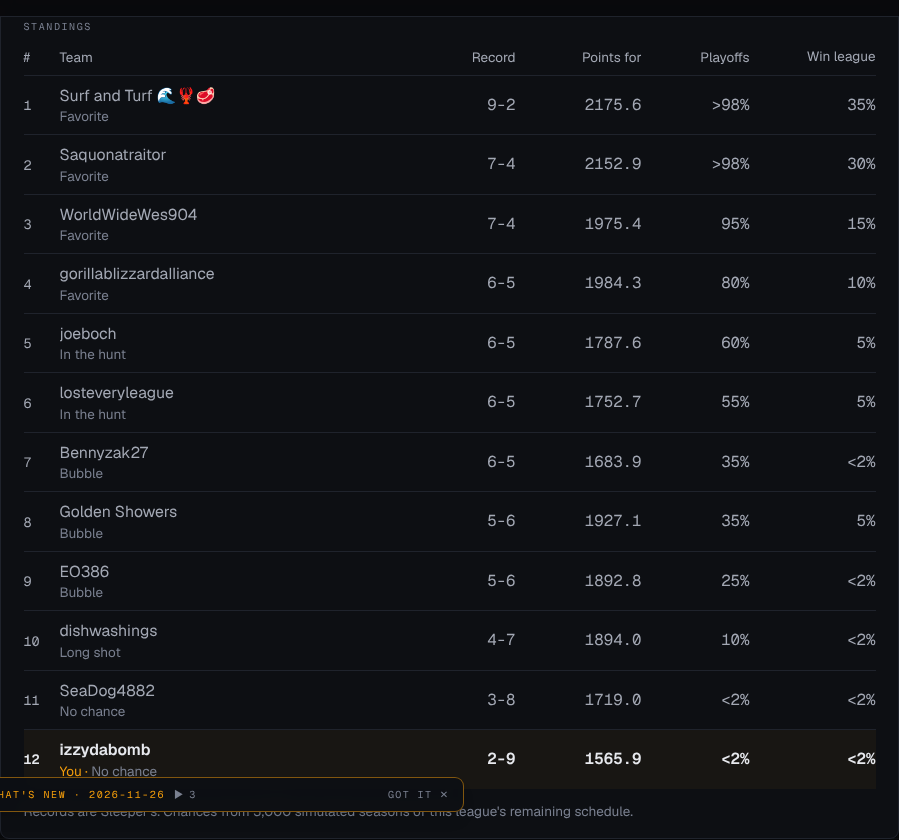
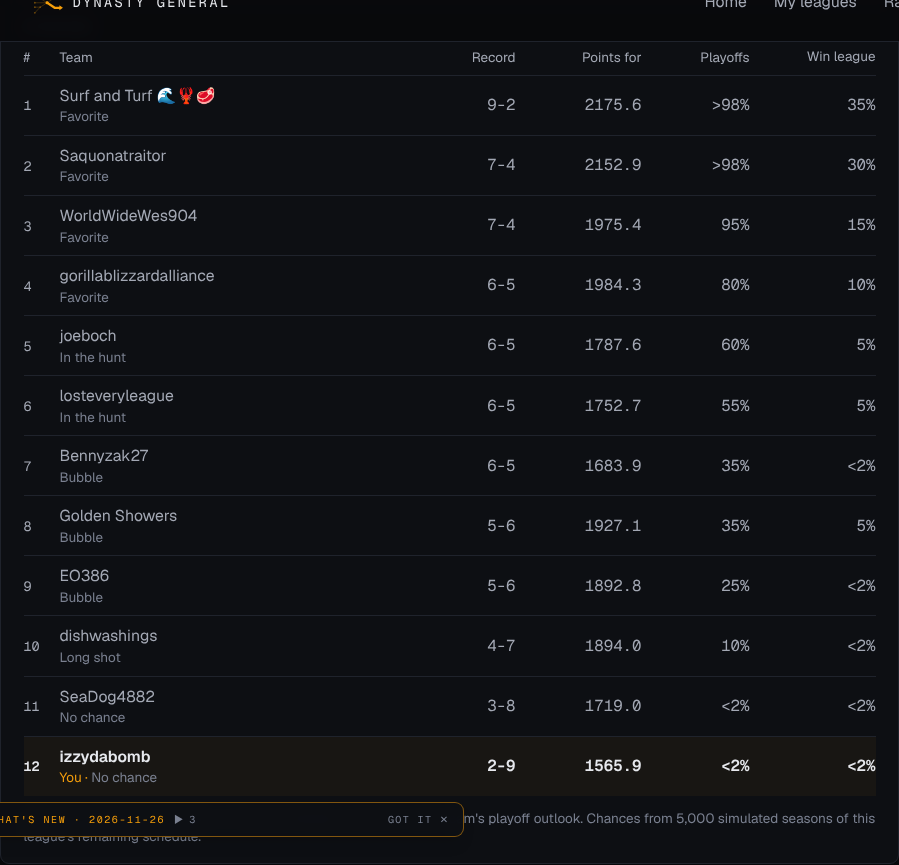
PR 156 design-qa round 1: preseason reads one tap down, outlook starts next season, odds counted with median games, one percent format
- In-season the league section leads with standings; roster value tables, draft-era opponent reads and the preseason SWOT sit in one collapsed block. SWOT hidden in redraft, best ball and closed-trade leagues.
- Contender outlook starts at next season in-season (this season is answered by results).
- Median-game leagues show odds now that #155 counts median games.
- Buyer reasons print odds with fmtPct; seller tag only in dynasty and keeper with trades open; labels wrap on phone, legend in the footnote.

Claude-Session: https://claude.ai/code/session_014dZxKd6LALUkPtsHqxYePm

diff --git a/src/app/leagues/[leagueId]/page.tsx b/src/app/leagues/[leagueId]/page.tsx
@@ -1983,7 +1983,18 @@ export default async function LeagueHubPage({
   if (leagueSnapshot) {
     try {
       const meSnap = getMyRoster(leagueSnapshot);
-      const years = await computeContenderForecast(leagueSnapshot, meSnap);
+      const allYears = await computeContenderForecast(leagueSnapshot, meSnap);
+      // In-season the current year is answered by this season's results
+      // (the strip and the keep-or-sell odds), not by a roster-value
+      // projection, so the outlook starts at next season.
+      const seasonUnderway =
+        !draftActive &&
+        (draftState?.status === "complete" ||
+          nflState?.season_type === "regular" ||
+          nflState?.season_type === "post");
+      const years = seasonUnderway
+        ? allYears.filter((y) => y.season !== leagueSnapshot!.season)
+        : allYears;
       contenderOutlook = synthesizeContenderOutlook({
         years,
         snap: leagueSnapshot,
@@ -3130,18 +3141,8 @@ export default async function LeagueHubPage({
                           odds={contendOrSell?.league_odds ?? null}
                           sims={contendOrSell?.provenance.sims ?? null}
                           medianGames={medianGames}
-                          simCountsMedian={
-                            (contendOrSell?.provenance as { median_game?: boolean } | undefined)
-                              ?.median_game === true
-                          }
-                          tradeOpen={contendOrSell?.trade_window.open ?? false}
+                          showSellers={(contendOrSell?.trade_window.open ?? false) && !thisSeasonOnly}
                         />
-                      )}
-                      {inSeasonLayout && leagueOutlook && leagueSnapshot && (
-                        <>
-                          <LeagueDivergence outlook={leagueOutlook} />
-                          <LeagueTable outlook={leagueOutlook} />
-                        </>
                       )}
                       {leagueRead && (inSeasonLayout || draftState?.status !== "pre_draft") && (
                         <TradeStrategyPanel data={leagueRead} />
@@ -3169,14 +3170,39 @@ export default async function LeagueHubPage({
                         // standings above carry that), so they sit one
                         // tap down instead of leading the section.
                         if (!inSeasonLayout) return opponentReads;
-                        if (opponentCharacterizations.length === 0 && !pathCompetition) return null;
+                        const rosterValue = leagueOutlook && leagueSnapshot ? (
+                          <>
+                            <LeagueDivergence outlook={leagueOutlook} />
+                            <LeagueTable outlook={leagueOutlook} />
+                          </>
+                        ) : null;
+                        // The SWOT plays are trade and draft moves written
+                        // for the preseason (future picks included); none
+                        // apply once trades close or in a redraft or best
+                        // ball league.
+                        const preseasonSwot =
+                          leagueOutlook &&
+                          leagueSnapshot &&
+                          !thisSeasonOnly &&
+                          (contendOrSell?.trade_window.open ?? true) ? (
+                            <SwotCard swot={computeSwot(leagueSnapshot, leagueOutlook)} />
+                          ) : null;
+                        if (!rosterValue && !preseasonSwot && opponentCharacterizations.length === 0 && !pathCompetition) {
+                          return null;
+                        }
                         return (
                           <details className="rounded-lg border border-border-soft bg-surface px-4 py-3 sm:px-5">
                             <summary className="cursor-pointer text-sm text-foreground">
-                              How each roster was built at the draft
-                              <span className="ml-2 text-xs text-muted-2">opponent notes, trade history, same-path rivals</span>
+                              Roster value and preseason reads
+                              <span className="ml-2 text-xs text-muted-2">
+                                ranked by player value, not this season&apos;s results; written at the draft
+                              </span>
                             </summary>
-                            <div className="mt-4 space-y-6">{opponentReads}</div>
+                            <div className="mt-4 space-y-6">
+                              {rosterValue}
+                              {opponentReads}
+                              {preseasonSwot}
+                            </div>
                           </details>
                         );
                       })()}
@@ -3202,13 +3228,7 @@ export default async function LeagueHubPage({
                             <LeagueTable outlook={leagueOutlook} />
                           </>
                         )}
-                      {inSeasonLayout &&
-                        leagueOutlook &&
-                        leagueSnapshot && (
-                          <SwotCard
-                            swot={computeSwot(leagueSnapshot, leagueOutlook)}
-                          />
-                        )}
+
                       {draftState?.status === "pre_draft" && !inSeasonLayout && (
                         <div className="rounded-md border border-border-soft bg-surface px-4 py-3 text-xs leading-relaxed text-muted">
                           League-shape surfaces (SWOT, standings,

diff --git a/src/components/league/season-standings.tsx b/src/components/league/season-standings.tsx
@@ -21,28 +21,21 @@ export interface SeasonStandingsRow {
 
 export function SeasonStandings({
   rows,
-  odds: simOdds,
+  odds,
   sims,
   medianGames,
-  simCountsMedian,
-  tradeOpen,
+  showSellers,
 }: {
   rows: SeasonStandingsRow[];
   odds: Record<number, TeamOdds> | null;
   sims: number | null;
   /** league_average_match: each week also counts a game against the league median. */
   medianGames: boolean;
-  /** The simulator run also played the median games (provenance.median_game). */
-  simCountsMedian: boolean;
-  /** The tradeWindow canonical; seller tags show only while trades are open. */
-  tradeOpen: boolean;
+  /** Seller tags: only while trades are open (tradeWindow canonical) and
+   * only where rosters carry over (a redraft sale banks nothing). */
+  showSellers: boolean;
 }) {
   if (rows.length === 0) return null;
-  // The simulator plays head-to-head games only. In a league that also
-  // scores a game against the weekly median, its odds would sit beside a
-  // record built on twice the games and read out of order, so the table
-  // shows the record alone there.
-  const odds = medianGames && !simCountsMedian ? null : simOdds;
   return (
     <section aria-label="Standings" className="rounded-lg border border-border-soft bg-surface px-4 py-4 sm:px-5">
       <div className="font-mono text-[10px] uppercase tracking-[0.16em] text-muted-2">Standings</div>
@@ -67,18 +60,16 @@ export function SeasonStandings({
               >
                 <td className="py-2 font-mono text-xs">{i + 1}</td>
                 <td className="min-w-0 py-2 pr-2">
-                  <span className="block truncate">
-                    {r.name}
-                  </span>
+                  <span className="block break-words">{r.name}</span>
                   {r.is_me && !o && <span className="block text-xs font-normal text-accent">You</span>}
                   {o && (
-                    <span className="block truncate text-xs font-normal text-muted-2">
+                    <span className="block text-xs font-normal leading-snug text-muted-2">
                       {r.is_me && <span className="text-accent">You · </span>}
                       {RANGE_LABEL[playoffRange(o.playoff_pct)]}
                       {/* Same rule as the weekly email's Seller tag
                           (ROLE_DEFINITIONS.seller): a long shot or out,
                           likely to sell veterans. */}
-                      {tradeOpen && !r.is_me && ["long_shot", "no_chance"].includes(playoffRange(o.playoff_pct))
+                      {showSellers && !r.is_me && ["long_shot", "no_chance"].includes(playoffRange(o.playoff_pct))
                         ? " · seller"
                         : ""}
                     </span>
@@ -100,12 +91,11 @@ export function SeasonStandings({
         {medianGames
           ? "Records are Sleeper's and include a game against the league median each week. "
           : "Records are Sleeper's. "}
-        {odds && tradeOpen ? `${ROLE_DEFINITIONS.seller}. ` : ""}
+        {odds ? "Favorite, In the hunt, Bubble, Long shot: each team's playoff outlook. " : ""}
+        {odds && showSellers ? `${ROLE_DEFINITIONS.seller}. ` : ""}
         {odds && sims
-          ? `Chances from ${sims.toLocaleString("en-US")} simulated seasons of this league's remaining schedule.`
-          : medianGames && simOdds && !simCountsMedian
-            ? "Playoff and league-win chances are left out here: the season simulator does not count the median games yet."
-            : ""}
+          ? `Chances from ${sims.toLocaleString("en-US")} simulated seasons of this league's remaining schedule${medianGames ? ", median games included" : ""}.`
+          : ""}
       </p>
     </section>
   );

diff --git a/src/lib/strategy/verdict/buyers.ts b/src/lib/strategy/verdict/buyers.ts
@@ -7,6 +7,7 @@
  */
 
 import type { AskLadder } from "./ask";
+import { fmtPct } from "@/lib/email/trade-desk/league-week";
 
 export interface BuyerInput {
   roster_id: number;
@@ -53,7 +54,7 @@ export function rankBuyers(args: {
       ...r,
       need,
       score,
-      reason: `${Math.round(r.title_pct * 100)}% to win the league, ${depth}`,
+      reason: `${fmtPct(r.title_pct)} to win the league, ${depth}`,
     });
   }
   out.sort((a, b) => b.score - a.score || a.roster_id - b.roster_id);
